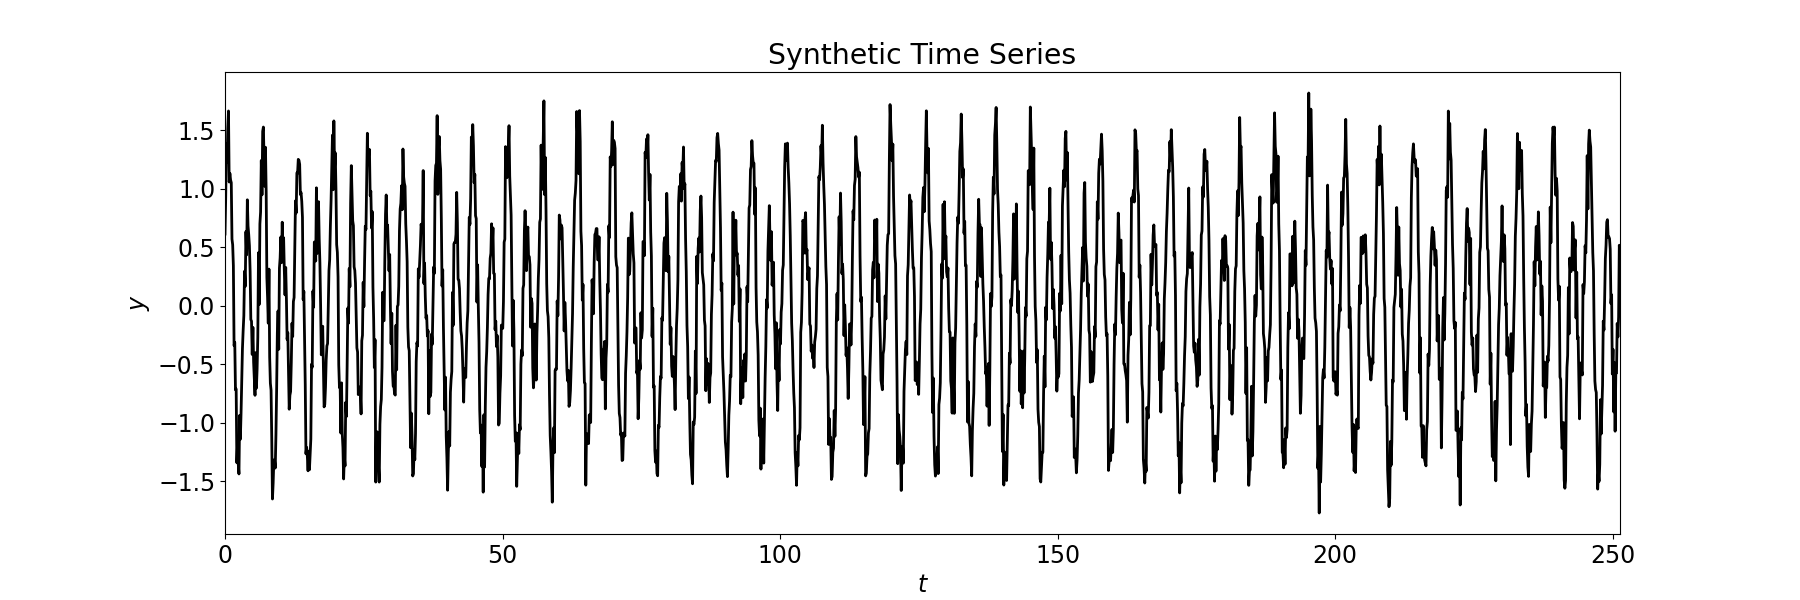
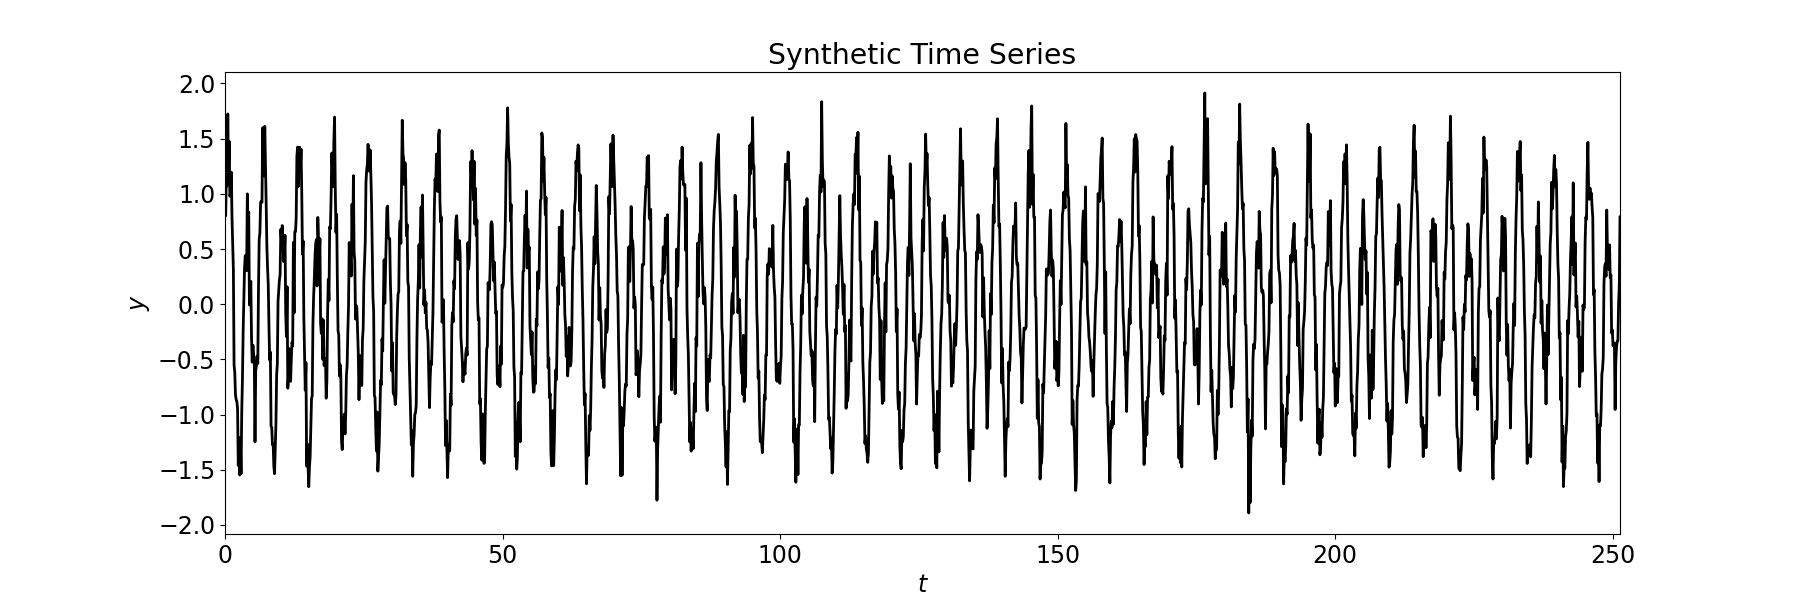
暂存 输出不对

diff --git a/LSTM_encoder_decoder/code/example.py b/LSTM_encoder_decoder/code/example.py
@@ -24,10 +24,11 @@ matplotlib.rcParams.update({'font.size': 17})
 t, y = generate_dataset.synthetic_data()
 t_train, y_train, t_test, y_test = generate_dataset.train_test_split(t, y, split = 0.8)
 
-# plot time series 
+# plot time series
+"""
+先注释画图部分
 plt.figure(figsize = (18, 6))
 plt.plot(t, y, color = 'k', linewidth = 2)
-plt.xlim([t[0], t[-1]])
 plt.xlabel('$t$')
 plt.ylabel('$y$')
 plt.title('Synthetic Time Series')
@@ -45,7 +46,7 @@ plt.title('Time Series Split into Train and Test Sets')
 plt.legend(bbox_to_anchor=(1, 1))
 plt.tight_layout
 plt.savefig('plots/train_test_split.png')
-
+"""
 #----------------------------------------------------------------------------------------------------------------
 # window dataset
 
@@ -55,10 +56,12 @@ ow = 20
 s = 5
 
 # generate windowed training/test datasets
-Xtrain, Ytrain= generate_dataset.windowed_dataset(y_train, input_window = iw, output_window = ow, stride = s)
-Xtest, Ytest = generate_dataset.windowed_dataset(y_test, input_window = iw, output_window = ow, stride = s)
+Xtrain, Ytrain= generate_dataset.windowed_dataset(y_train, input_window = iw, output_window = ow, stride = s,num_features=t_train.shape[1])
+Xtest, Ytest = generate_dataset.windowed_dataset(y_test, input_window = iw, output_window = ow, stride = s,num_features=t_train.shape[1])
 
-# plot example of windowed data  
+# plot example of windowed data
+"""
+先注释画图部分
 plt.figure(figsize = (10, 6)) 
 plt.plot(np.arange(0, iw), Xtrain[:, 0, 0], 'k', linewidth = 2.2, label = 'Input')
 plt.plot(np.arange(iw - 1, iw + ow), np.concatenate([[Xtrain[-1, 0, 0]], Ytrain[:, 0, 0]]),
@@ -70,7 +73,7 @@ plt.title('Example of Windowed Training Data')
 plt.legend(bbox_to_anchor=(1.3, 1))
 plt.tight_layout() 
 plt.savefig('plots/windowed_data.png')
-
+"""
 #----------------------------------------------------------------------------------------------------------------
 # LSTM encoder-decoder
 

diff --git a/LSTM_encoder_decoder/code/generate_dataset.py b/LSTM_encoder_decoder/code/generate_dataset.py
@@ -19,8 +19,8 @@ def synthetic_data(Nt = 2000, tf = 80 * np.pi):
     : return t, y:    time, feature arrays
     '''
     
-    t = np.linspace(0., tf, Nt)
-    y = np.sin(2. * t) + 0.5 * np.cos(t) + np.random.normal(0., 0.2, Nt)
+    t = np.transpose(np.array([np.linspace(0., tf, Nt),np.linspace(0., tf+100, Nt)]))
+    y = np.sin(2. * t[:,0]) + 0.5 * np.cos(t[:,0]) + np.random.normal(0., 0.2, Nt)
 
     return t, y
 
@@ -77,11 +77,13 @@ def windowed_dataset(y, input_window = 5, output_window = 1, stride = 1, num_fea
         for ii in np.arange(num_samples):
             start_x = stride * ii
             end_x = start_x + input_window
-            X[:, ii, ff] = y[start_x:end_x, ff]
+            #暂且先这样改，可能不对
+            X[:, ii, ff] = y[start_x:end_x, 0]
 
             start_y = stride * ii + input_window
-            end_y = start_y + output_window 
-            Y[:, ii, ff] = y[start_y:end_y, ff]
+            end_y = start_y + output_window
+            # 暂且先这样改，可能不对
+            Y[:, ii, ff] = y[start_y:end_y, 0]
 
     return X, Y
 

diff --git a/backend/LSTM_encoder_decoder_Origin/code/example.py b/backend/LSTM_encoder_decoder_Origin/code/example.py
@@ -22,7 +22,7 @@ matplotlib.rcParams.update({'font.size': 17})
 t, y = generate_dataset.synthetic_data()
 #2000条数据，单变量，下面是单纯划分数据集，1600/400
 t_train, y_train, t_test, y_test = generate_dataset.train_test_split(t, y, split = 0.8)
-#
+#t_train除了画图似乎没有用到
 
 # plot time series 
 plt.figure(figsize = (18, 6))
